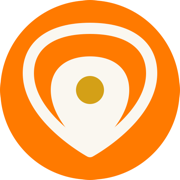
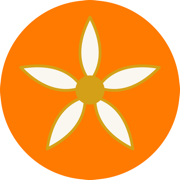
Redesign brand mark as Shaktimaan five-petal lotus
Replace the soft drop-shaped lotus with a five-petal geometric mandala
across the navbar, footer, standalone logo, and favicon (plus regenerated
16/32/180 PNGs). Same palette — saffron petals, gold center, gold rule —
just a more chakra-like, classically Indian silhouette that also reads
better at 16x16.

Changed region(s): [[0.1111, 0.0833, 0.8889, 0.8889]]

diff --git a/index.html b/index.html
@@ -28,14 +28,18 @@
     <div class="nav-container">
       <a href="#hero" class="nav-logo">
         <span class="logo-icon">
-          <!-- Lotus SVG icon -->
+          <!-- Shaktimaan five-petal lotus -->
           <svg width="32" height="32" viewBox="0 0 32 32" fill="none" xmlns="http://www.w3.org/2000/svg" aria-hidden="true">
-            <path d="M16 28C16 28 6 22 6 14C6 10 10 7 16 7C22 7 26 10 26 14C26 22 16 28 16 28Z" fill="var(--saffron)" opacity="0.9"/>
-            <path d="M16 28C16 28 2 20 2 12C2 6 8 3 16 3C24 3 30 6 30 12C30 20 16 28 16 28Z" fill="none" stroke="var(--gold)" stroke-width="1"/>
-            <path d="M16 7 L16 28" stroke="var(--gold)" stroke-width="0.8" opacity="0.6"/>
-            <circle cx="16" cy="14" r="2" fill="var(--gold)"/>
-            <path d="M8 18 Q12 14 16 16 Q20 14 24 18" stroke="var(--gold)" stroke-width="0.8" fill="none" opacity="0.7"/>
-            <path d="M10 22 Q13 18 16 20 Q19 18 22 22" stroke="var(--gold)" stroke-width="0.8" fill="none" opacity="0.5"/>
+            <g transform="translate(16 16)">
+              <g fill="var(--saffron)" stroke="var(--gold)" stroke-width="0.6" stroke-linejoin="round">
+                <path d="M0 -14 C2.2 -9, 2.2 -5, 0 -2 C-2.2 -5, -2.2 -9, 0 -14 Z"/>
+                <path d="M0 -14 C2.2 -9, 2.2 -5, 0 -2 C-2.2 -5, -2.2 -9, 0 -14 Z" transform="rotate(72)"/>
+                <path d="M0 -14 C2.2 -9, 2.2 -5, 0 -2 C-2.2 -5, -2.2 -9, 0 -14 Z" transform="rotate(144)"/>
+                <path d="M0 -14 C2.2 -9, 2.2 -5, 0 -2 C-2.2 -5, -2.2 -9, 0 -14 Z" transform="rotate(216)"/>
+                <path d="M0 -14 C2.2 -9, 2.2 -5, 0 -2 C-2.2 -5, -2.2 -9, 0 -14 Z" transform="rotate(288)"/>
+              </g>
+              <circle r="3" fill="var(--gold)"/>
+            </g>
           </svg>
         </span>
         <span class="logo-text">Bramha <span class="logo-thin">Interiors</span></span>
@@ -548,9 +552,16 @@
             <a href="#hero" class="nav-logo footer-logo">
               <span class="logo-icon">
                 <svg width="28" height="28" viewBox="0 0 32 32" fill="none" aria-hidden="true">
-                  <path d="M16 28C16 28 6 22 6 14C6 10 10 7 16 7C22 7 26 10 26 14C26 22 16 28 16 28Z" fill="var(--saffron)" opacity="0.9"/>
-                  <path d="M16 28C16 28 2 20 2 12C2 6 8 3 16 3C24 3 30 6 30 12C30 20 16 28 16 28Z" fill="none" stroke="var(--gold)" stroke-width="1"/>
-                  <circle cx="16" cy="14" r="2" fill="var(--gold)"/>
+                  <g transform="translate(16 16)">
+                    <g fill="var(--saffron)" stroke="var(--gold)" stroke-width="0.6" stroke-linejoin="round">
+                      <path d="M0 -14 C2.2 -9, 2.2 -5, 0 -2 C-2.2 -5, -2.2 -9, 0 -14 Z"/>
+                      <path d="M0 -14 C2.2 -9, 2.2 -5, 0 -2 C-2.2 -5, -2.2 -9, 0 -14 Z" transform="rotate(72)"/>
+                      <path d="M0 -14 C2.2 -9, 2.2 -5, 0 -2 C-2.2 -5, -2.2 -9, 0 -14 Z" transform="rotate(144)"/>
+                      <path d="M0 -14 C2.2 -9, 2.2 -5, 0 -2 C-2.2 -5, -2.2 -9, 0 -14 Z" transform="rotate(216)"/>
+                      <path d="M0 -14 C2.2 -9, 2.2 -5, 0 -2 C-2.2 -5, -2.2 -9, 0 -14 Z" transform="rotate(288)"/>
+                    </g>
+                    <circle r="3" fill="var(--gold)"/>
+                  </g>
                 </svg>
               </span>
               <span class="logo-text">Bramha <span class="logo-thin">Interiors</span></span>
